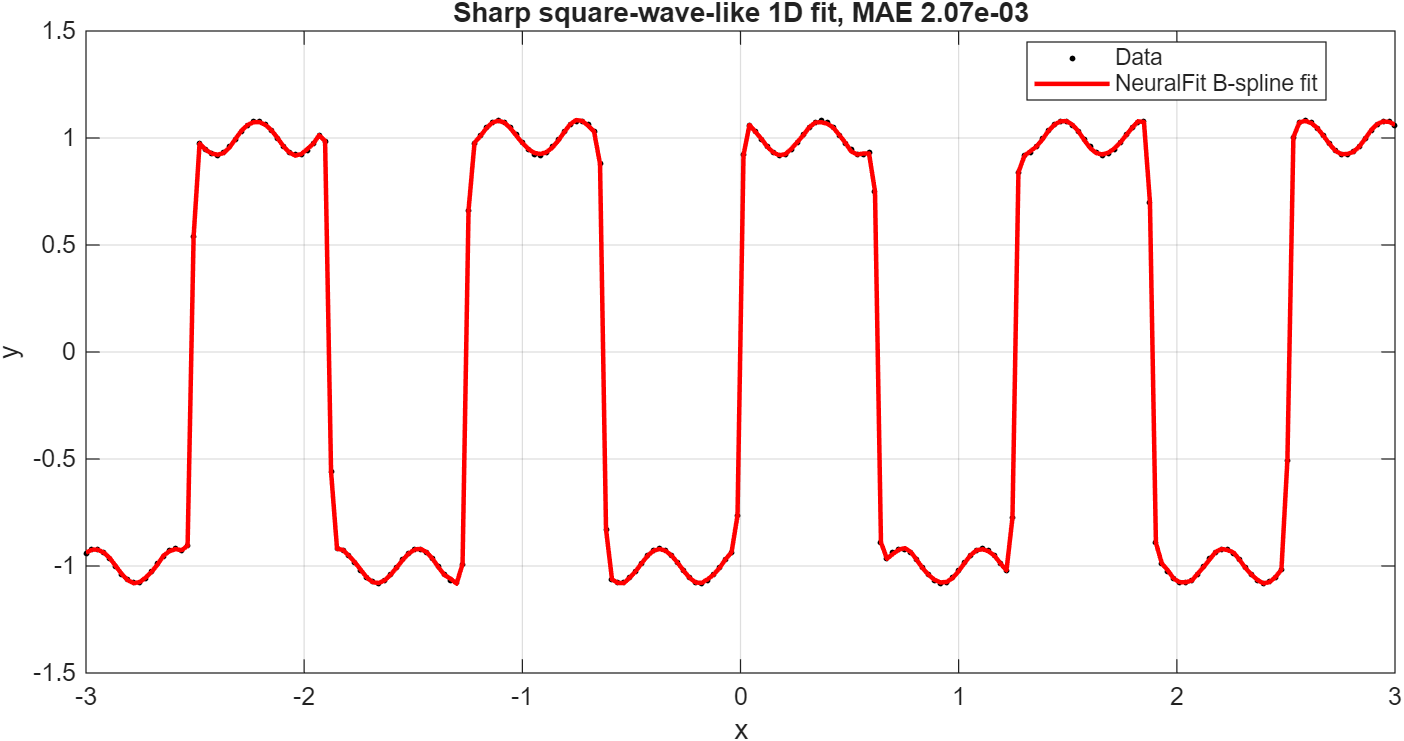
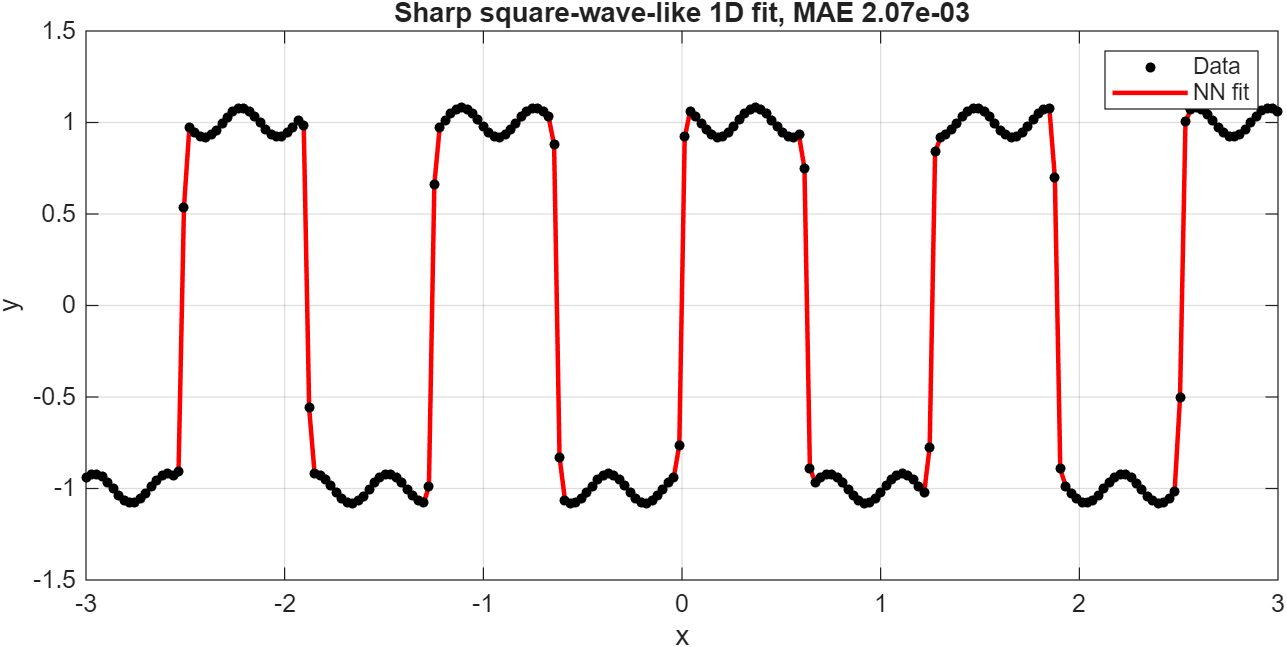
Refine README figure presentation

diff --git a/docs/source/createReadmeFigures.m b/docs/source/createReadmeFigures.m
@@ -28,13 +28,13 @@ bsplineModel = NeuralFit(x, y, [1, 1], ...
     'stage1Iterations', 80, 'stage2Iterations', 500);
 yHat = bsplineModel.Evaluate(x);
 
-fig = figure('Visible', 'off', 'Color', 'w', 'Position', [100 100 900 420]);
-plot(x, y, 'k.', 'MarkerSize', 7); hold on;
-plot(x, yHat, 'r-', 'LineWidth', 1.8);
+fig = figure('Visible', 'off', 'Color', 'w', 'Position', [100 100 820 360]);
+fitPlot = plot(x, yHat, 'r-', 'LineWidth', 1.8); hold on;
+dataPlot = plot(x, y, 'k.', 'MarkerSize', 12);
 grid on;
 xlabel('x'); ylabel('y');
 title(sprintf('Sharp square-wave-like 1D fit, MAE %.2e', bsplineModel.MeanAbsoluteError));
-legend('Data', 'NeuralFit B-spline fit', 'Location', 'best');
+legend([dataPlot, fitPlot], {'Data', 'NN fit'}, 'Location', 'northeast');
 exportgraphics(fig, fullfile(assetDir, 'sharp-square-wave-curve-fitting.png'), 'Resolution', 180);
 close(fig);
 
@@ -56,24 +56,24 @@ prediction = multiModel.Evaluate(data);
 output1Hat = reshape(prediction(1,:), n, n);
 output2Hat = reshape(prediction(2,:), n, n);
 
-fig = figure('Visible', 'off', 'Color', 'w', 'Position', [100 100 1100 430]);
+fig = figure('Visible', 'off', 'Color', 'w', 'Position', [100 100 980 390]);
 tiledlayout(1, 2, 'TileSpacing', 'compact', 'Padding', 'compact');
 
 nexttile;
 fitPlot = surf(xGrid, yGrid, output1Hat, 'EdgeColor', 'none'); hold on;
-dataPlot = scatter3(data(1,:), data(2,:), label(1,:), 9, 'k', 'filled');
+dataPlot = scatter3(data(1,:), data(2,:), label(1,:), 18, 'k', 'filled');
 view(35, 24); grid on;
 xlabel('x'); ylabel('y'); zlabel('y1');
 title('NN fit - out1');
-legend([dataPlot, fitPlot], {'Data', 'Fitting'}, 'Location', 'best');
+legend([dataPlot, fitPlot], {'Data', 'NN fit'}, 'Location', 'best');
 
 nexttile;
 fitPlot = surf(xGrid, yGrid, output2Hat, 'EdgeColor', 'none'); hold on;
-dataPlot = scatter3(data(1,:), data(2,:), label(2,:), 9, 'k', 'filled');
+dataPlot = scatter3(data(1,:), data(2,:), label(2,:), 18, 'k', 'filled');
 view(35, 24); grid on;
 xlabel('x'); ylabel('y'); zlabel('y2');
 title('NN fit - out2');
-legend([dataPlot, fitPlot], {'Data', 'Fitting'}, 'Location', 'best');
+legend([dataPlot, fitPlot], {'Data', 'NN fit'}, 'Location', 'best');
 
 exportgraphics(fig, fullfile(assetDir, 'multi-output-surface-fitting.png'), 'Resolution', 180);
 close(fig);

diff --git a/README.md b/README.md
@@ -8,11 +8,15 @@ This toolbox is built for MATLAB users who need accurate nonlinear regression wi
 
 Sharp 1D curve fitting with the default learnable B-spline basis:
 
-![Sharp square-wave-like MATLAB neural network curve fitting with B-spline basis](docs/assets/sharp-square-wave-curve-fitting.png)
+<p align="center">
+  <img src="docs/assets/sharp-square-wave-curve-fitting.png" alt="Sharp square-wave-like MATLAB neural network curve fitting with B-spline basis" width="720">
+</p>
 
 Multi-output 2D surface fitting:
 
-![MATLAB neural network multi-output surface fitting for nonlinear regression](docs/assets/multi-output-surface-fitting.png)
+<p align="center">
+  <img src="docs/assets/multi-output-surface-fitting.png" alt="MATLAB neural network multi-output surface fitting for nonlinear regression" width="820">
+</p>
 
 ## Core Function
 
